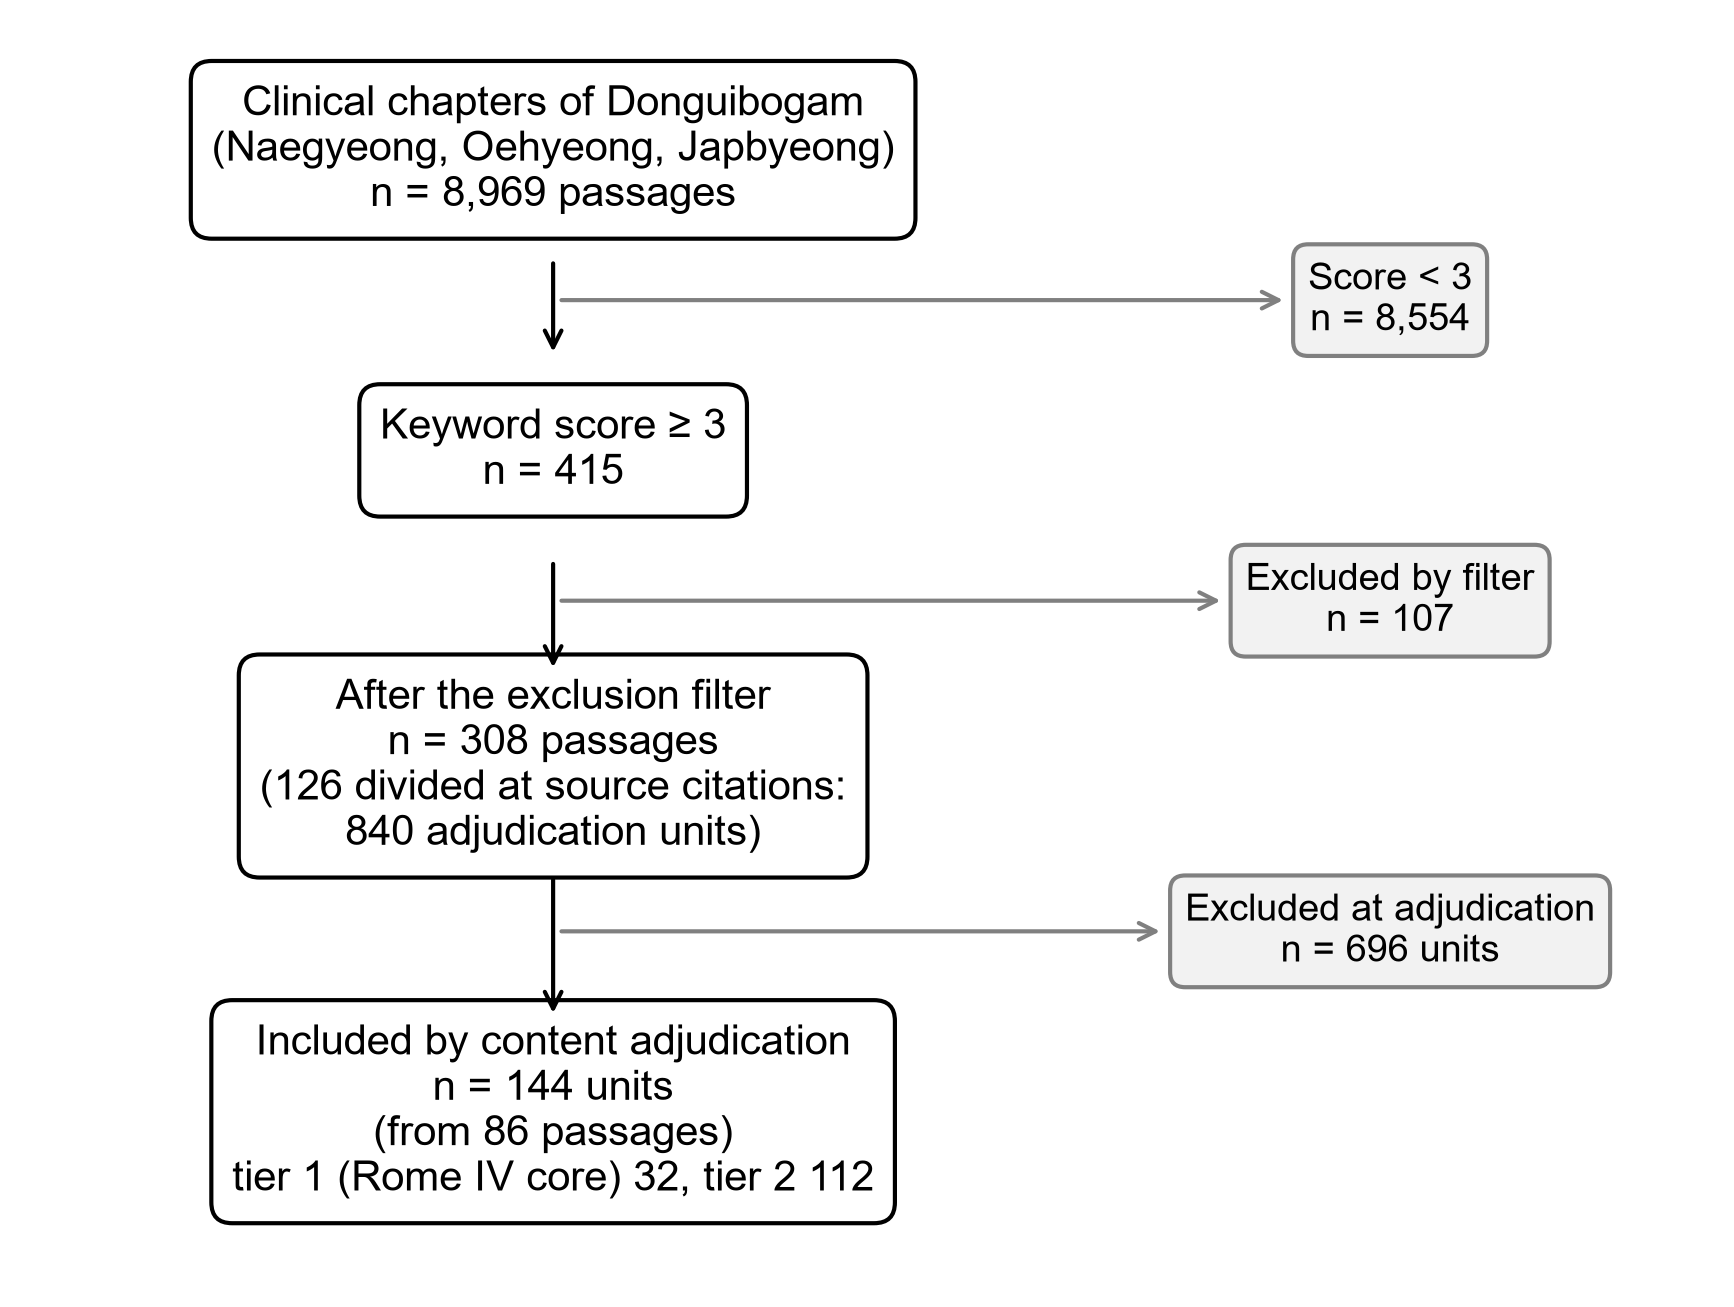
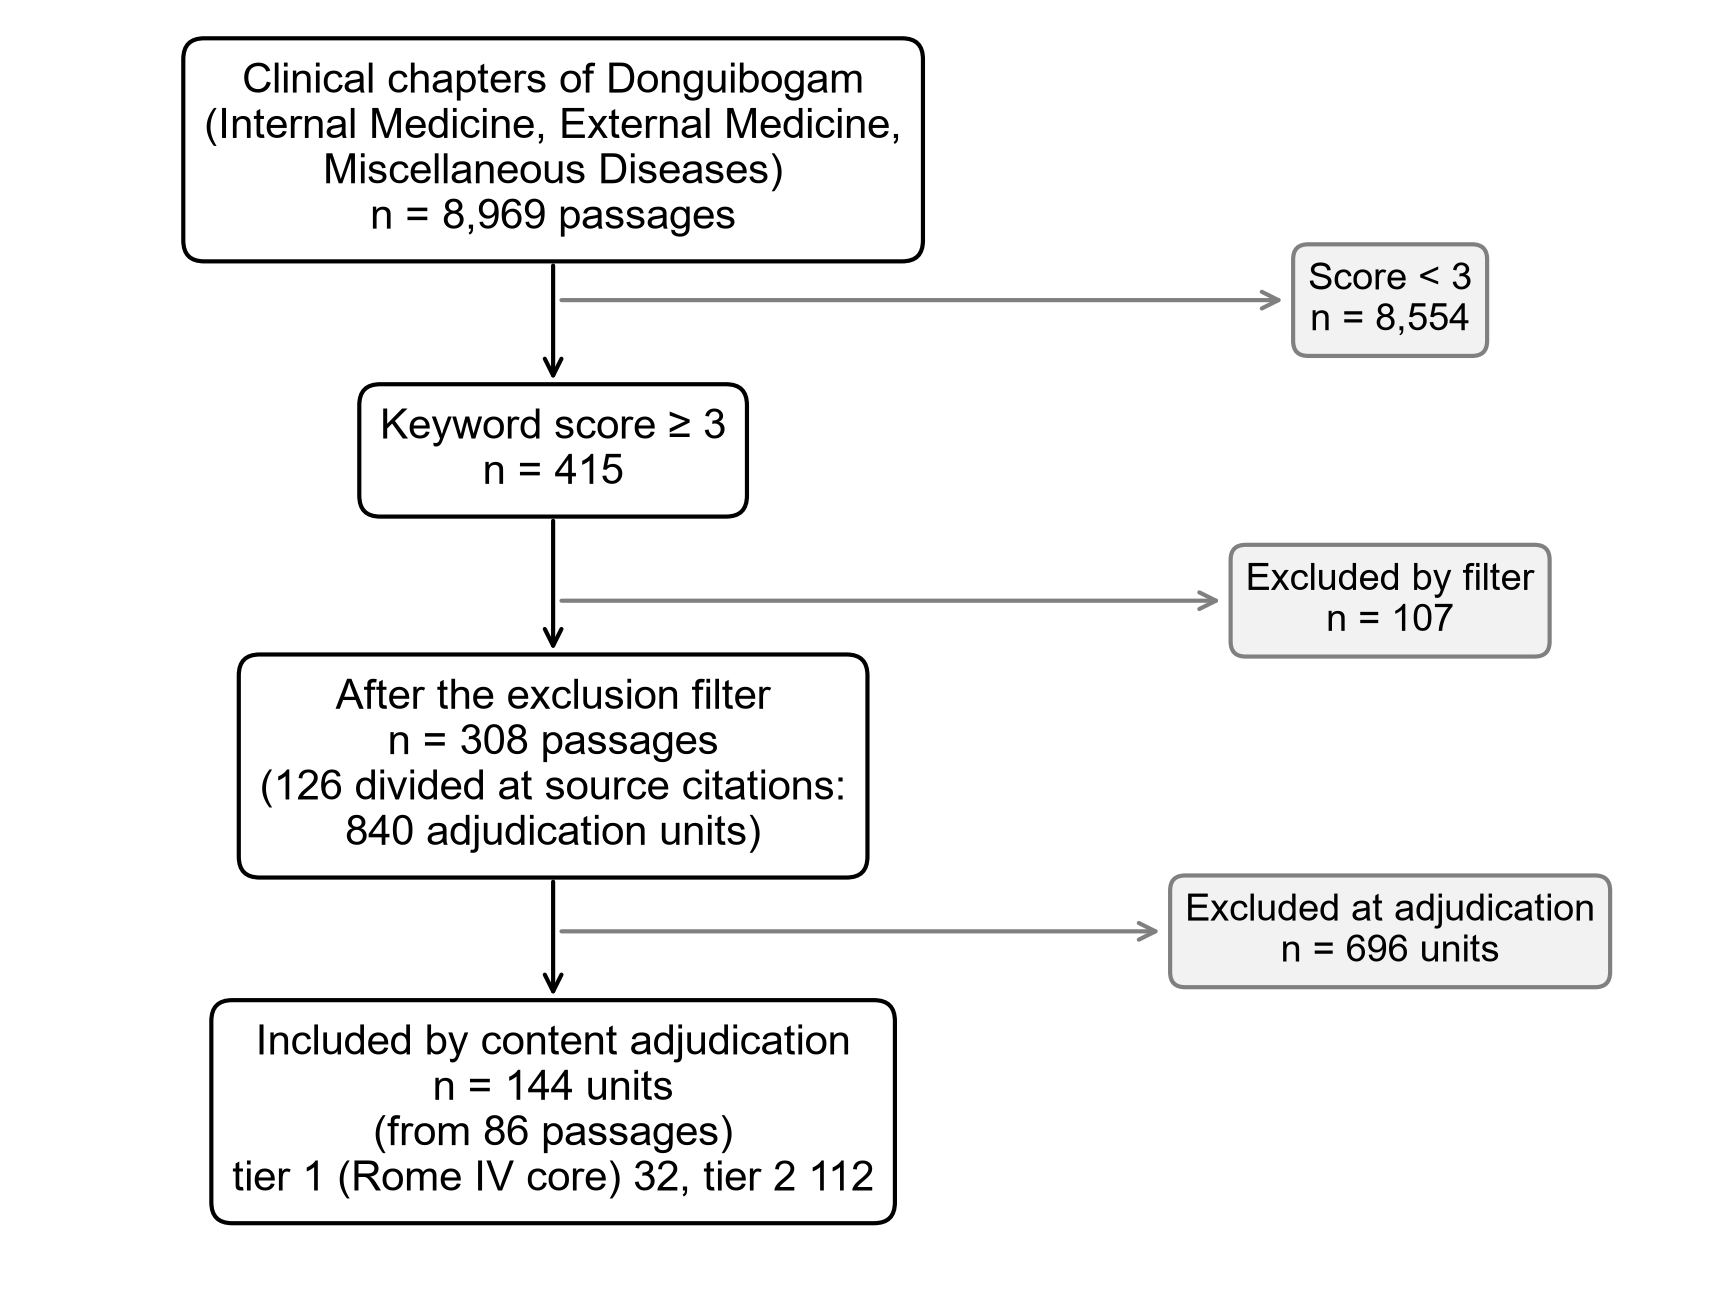
Show herbs tied at rank 20 and list a single-herb remedy by its own herb
- Figure 2 and the rank-stability figure show every herb ranked 20th or
  higher (21 herbs, three tied at rank 19) instead of cutting the tie
- Component contributions (outputs/17) include herbs tied at the boundary
  and report the number of herbs in each set
- A single-herb remedy (單方) is listed with its own herb, and the other
  herbs its entry names are noted as possible combinations
- Flow figure: chapter names in English, arrows anchored to the boxes

diff --git a/src/figures.py b/src/figures.py
@@ -41,7 +41,8 @@ def flow(counts, out):
     n_units = counts.get("adjudicated_units", counts["adjudicated"])
     mx, sx = 0.36, 0.84                  # centres of the main column and of the side column
     boxes = [
-        (mx, 0.92, f"Clinical chapters of Donguibogam\n(Naegyeong, Oehyeong, Japbyeong)\nn = {counts['units']:,} passages"),
+        (mx, 0.92, f"Clinical chapters of Donguibogam\n(Internal Medicine, External Medicine,\nMiscellaneous Diseases)\n"
+                   f"n = {counts['units']:,} passages"),
         (mx, 0.72, f"Keyword score ≥ {counts['threshold']}\nn = {counts['candidates']}"),
         (mx, 0.51, f"After the exclusion filter\nn = {counts['adjudicated']} passages" +
          (f"\n({div} divided at source citations:\n{n_units} adjudication units)" if div else "")),
@@ -54,13 +55,14 @@ def flow(counts, out):
         (sx, 0.62, f"Excluded by filter\nn = {counts['filtered']}"),
         (sx, 0.40, f"Excluded at adjudication\nn = {n_units - counts['included']}" + (" units" if div else "")),
     ]
-    for x, y, t in boxes:
-        ax.text(x, y, t, ha="center", va="center", fontsize=10,
-                bbox=dict(boxstyle="round,pad=0.5", fc="white", ec="black"))
+    main_text = [ax.text(x, y, t, ha="center", va="center", fontsize=10,
+                         bbox=dict(boxstyle="round,pad=0.5", fc="white", ec="black")) for x, y, t in boxes]
     side_text = [ax.text(x, y, t, ha="center", va="center", fontsize=9,
                          bbox=dict(boxstyle="round,pad=0.4", fc="#F2F2F2", ec="gray")) for x, y, t in side]
-    for (x0, y0, _), (x1, y1, _) in zip(boxes[:-1], boxes[1:]):
-        ax.annotate("", xy=(x1, y1 + 0.06), xytext=(x0, y0 - 0.07), arrowprops=dict(arrowstyle="->"))
+    for a, b in zip(main_text[:-1], main_text[1:]):
+        # from the bottom edge of one box to the top edge of the next (coordinates relative to the boxes)
+        ax.annotate("", xy=(0.5, 1), xycoords=b, xytext=(0.5, 0), textcoords=a,
+                    arrowprops=dict(arrowstyle="->", shrinkA=6, shrinkB=6))
     for (x, _, _), (_, sy, _), st in zip(boxes[:-1], side, side_text):
         # the arrow ends at the left edge of the side box (coordinates relative to the box)
         ax.annotate("", xy=(0, 0.5), xycoords=st, xytext=(x, sy), textcoords="data",
@@ -75,10 +77,11 @@ def flow(counts, out):
 
 
 def contributions(base_rows, out, top=20, labels=None):
+    """Herbs ranked top-th or higher, herbs tied at the boundary included."""
     _font()
     lab = labels or {}
-    ranked = sorted(base_rows, key=lambda r: (r["rank"], r["herb"]))[:top][::-1]
-    fig, ax = plt.subplots(figsize=(7.5, 0.32 * top + 1.2))
+    ranked = [r for r in sorted(base_rows, key=lambda r: (r["rank"], r["herb"])) if r["rank"] <= top][::-1]
+    fig, ax = plt.subplots(figsize=(7.5, 0.32 * len(ranked) + 1.2))
     left = [0.0] * len(ranked)
     for k in KEYS:
         vals = [r["w" + k] for r in ranked]

diff --git a/src/prescriptions.py b/src/prescriptions.py
@@ -70,6 +70,15 @@ def prescription_table(final_units, all_units, composer, herb_scores, annotation
         u = it["entry"]
         raw, how = composer.composition(u)
         comp = [(h, d) for h, d in raw if composer.kind.get(h) in ("herb", "other")]
+        if u["CC"].replace(" ", "") == "單方":
+            # a single-herb remedy is headed by its herb, which the entry need not repeat; other herbs it names are
+            # alternatives to combine with (蒼朮 或合茯苓, 或合芍藥), not constituents
+            own = composer.lex["alias2canon"].get(u["name"], u["name"])
+            if composer.kind.get(own) == "herb":
+                others = [h for h, _ in comp if h != own]
+                comp = [(own, next((d for h, d in comp if h == own), None))]
+                if others:
+                    how = (how + "; " if how else "") + "may be combined with " + ", ".join(others)
         if not comp:
             continue
         scored = [(h, d) for h, d in comp if h in herb_scores]

diff --git a/src/sensitivity.py b/src/sensitivity.py
@@ -140,14 +140,15 @@ def design_matrix(rows):
 
 
 def contributions(base_rows, tops=(10, 20)):
+    """Weighted components of the herbs ranked t-th or higher; herbs tied at the boundary are all included."""
     out = []
     ranked = sorted(base_rows, key=lambda r: (r["rank"], r["herb"]))
     for t in tops:
-        sub = ranked[:t]
+        sub = [r for r in ranked if r["rank"] <= t]
         tot = sum(r["score"] for r in sub)
         for k in KEYS:
             v = [r["w" + k] for r in sub]
-            out.append(dict(top=t, component=k, mean=round(float(np.mean(v)), 2), min=round(float(np.min(v)), 2),
+            out.append(dict(top=t, n_herbs=len(sub), component=k, mean=round(float(np.mean(v)), 2), min=round(float(np.min(v)), 2),
                             max=round(float(np.max(v)), 2), share_of_total=round(sum(v) / tot, 3) if tot else ""))
     return out
 

diff --git a/run_all.py b/run_all.py
@@ -344,7 +344,7 @@ def main():
     figures.flow(counts, out("fig1_flow.png"))
     labels = figures.latin_labels()
     figures.contributions(base, out("fig2_component_contributions.png"), labels=labels)
-    top = [r["herb"] for r in base[:20]]
+    top = [r["herb"] for r in sorted(base, key=lambda r: (r["rank"], r["herb"])) if r["rank"] <= 20]  # ties included
     figures.rank_stability(rank_table, top, out("fig3_rank_stability.png"), labels=labels)
 
     # ---------------------------------------------------------------- summary workbook + manifest
